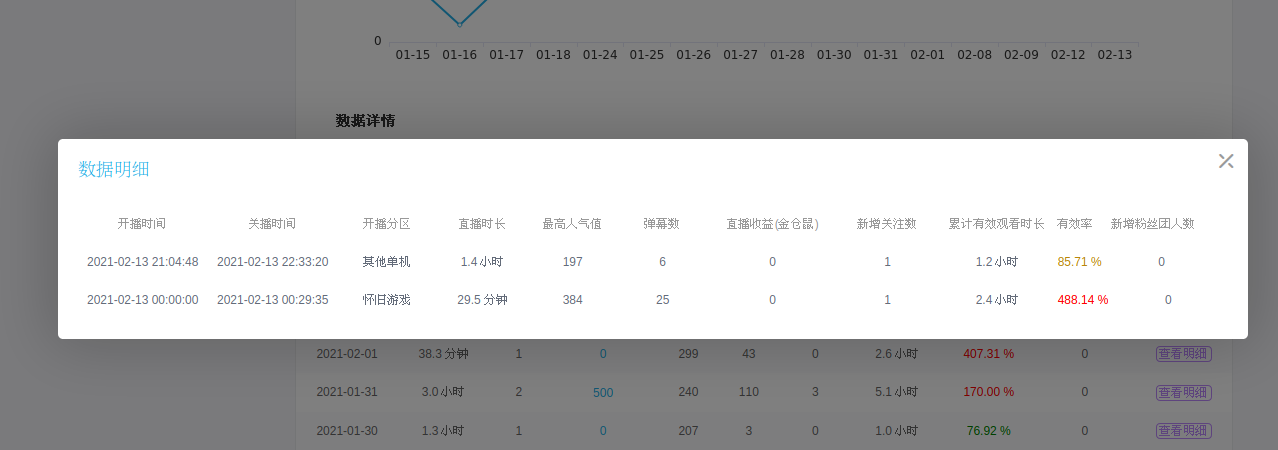
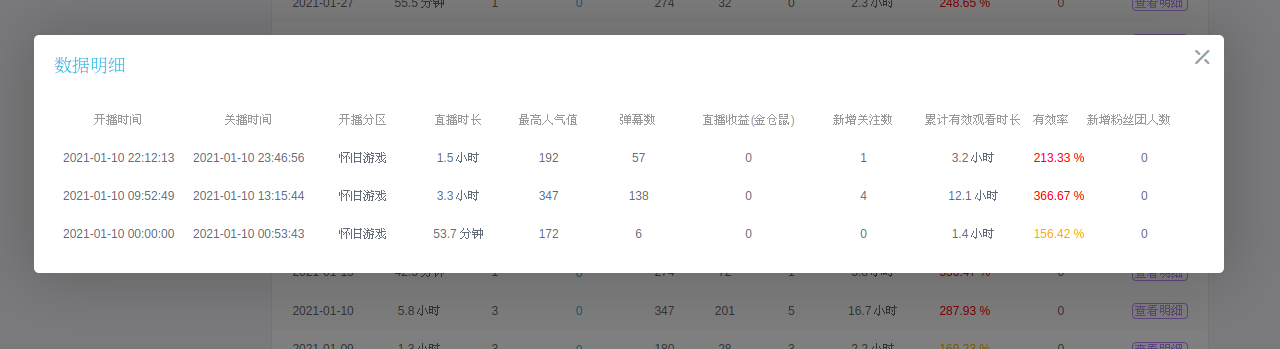
Change color pattern.

diff --git a/bilibili-live-effective-rate.js b/bilibili-live-effective-rate.js
@@ -76,13 +76,13 @@ This project is licensed under **GNU AFFERO GENERAL PUBLIC LICENSE Version 3**
 
         function colorRate(effectiveRate) {
             let color;
-            if (effectiveRate < 20) {
+            if (effectiveRate < 50) {
                 color = 'darkgreen';
-            } else if (effectiveRate < 80) {
-                color = 'green';
             } else if (effectiveRate < 100) {
+                color = 'green';
+            } else if (effectiveRate < 150) {
                 color = 'darkgoldenrod';
-            } else if (effectiveRate < 120) {
+            } else if (effectiveRate < 200) {
                 color = 'orange';
             } else {
                 color = 'red';
